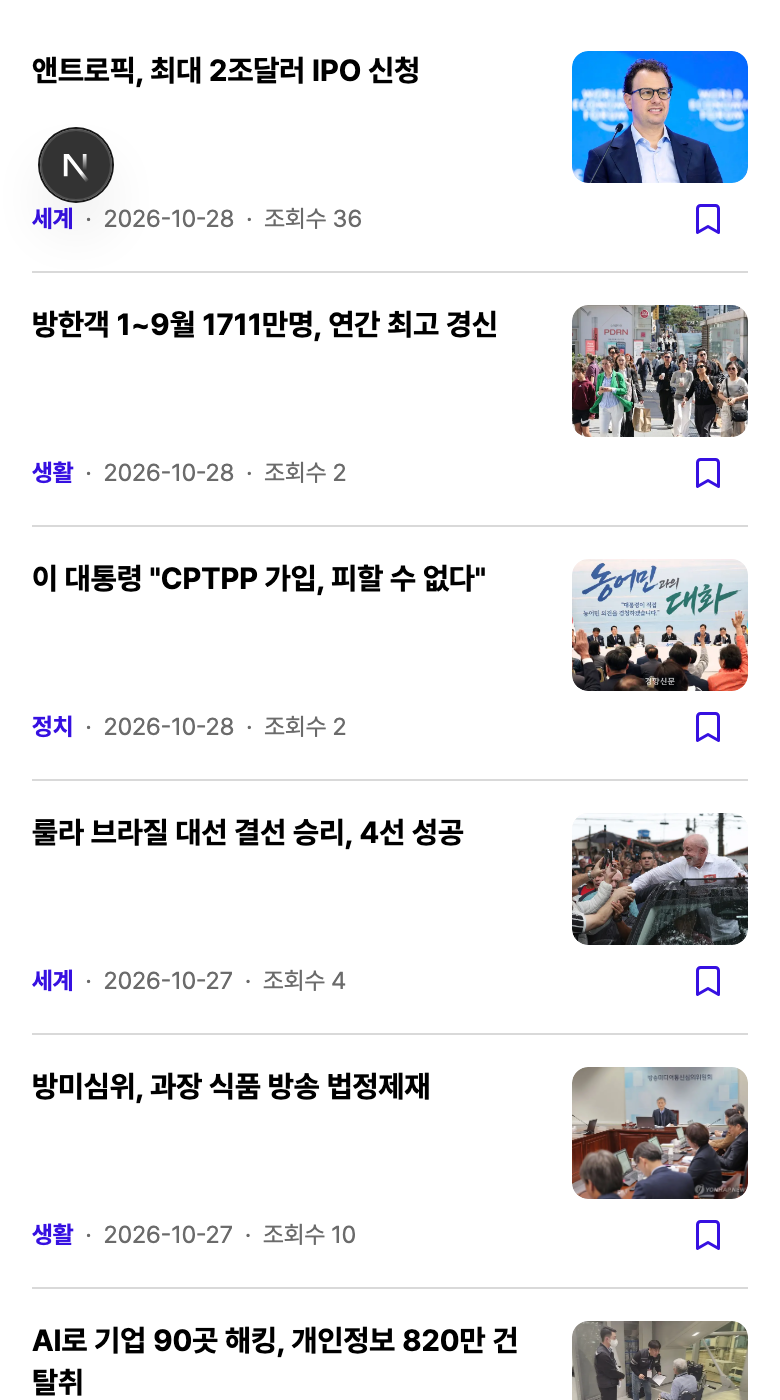
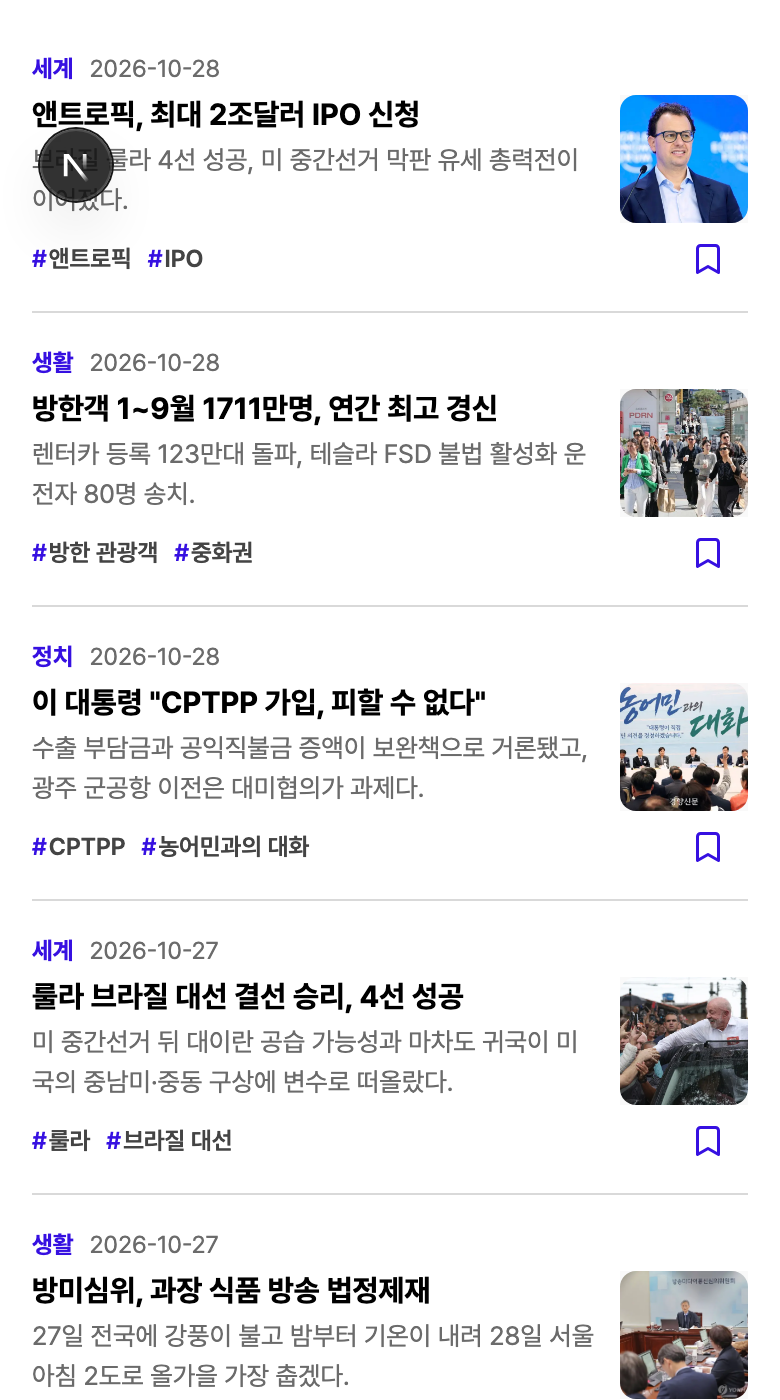
style: 휴대폰 목록 카드를 따로 — 분야 · 날짜 / 제목 · 설명 | 작은 정사각 썸네일 / 태그 · 북마크 (PC 카드는 그대로)

diff --git a/apps/web/src/components/common/Card.tsx b/apps/web/src/components/common/Card.tsx
@@ -44,7 +44,7 @@ function CardLink({
 }
 
 const Card = forwardRef<HTMLDivElement, Props>(({ type = 'sub', className, data, newTab = false, highlight }, ref) => {
-	const { image, header, main, footer, url } = data;
+	const { image, header, main, footer, url, date, action } = data;
 
 	return (
 		<StyledCard ref={ref} className={className} $type={type}>
@@ -131,7 +131,7 @@ const Card = forwardRef<HTMLDivElement, Props>(({ type = 'sub', className, data,
 				{type === 'list' && (
 					<>
 						{/* 제목 링크를 카드 전체로 늘려(::after) 어디를 눌러도 상세로. 태그 · 북마크는 그 위에 따로 눌린다 (#20) */}
-						<div className="card-stretch">
+						<div className="card-stretch wide">
 							<div className="card-main">
 								<div className="card-header">
 									{header && (
@@ -163,6 +163,38 @@ const Card = forwardRef<HTMLDivElement, Props>(({ type = 'sub', className, data,
 									</div>
 								</div>
 							</div>
+						</div>
+						{/* 휴대폰 카드: 분야 · 날짜 / 제목 · 설명 | 작은 썸네일 / 태그 · 북마크 */}
+						<div className="card-stretch narrow">
+							<div className="top">
+								{header && <span className="category">{header}</span>}
+								{date && <span className="date">{date}</span>}
+							</div>
+							<div className="row">
+								<div className="text">
+									{main.title && (
+										<CardLink href={url || '/not-found'} newTab={newTab} className="stretched-link">
+											<Text className="title" size="medium" weight="semiBold">
+												<Highlight text={main.title} query={highlight} />
+											</Text>
+										</CardLink>
+									)}
+									{main.description && (
+										<Text className="description" size="small">
+											<Highlight text={main.description} query={highlight} />
+										</Text>
+									)}
+								</div>
+								<div className="image-placeholder">
+									<Image src={image || `${DEFAULT_IMAGES.MONO}`} alt={main.title || 'card'} />
+								</div>
+							</div>
+							{(!!main.tags?.length || action) && (
+								<div className="bottom">
+									<Tags tags={main.tags} max={2} className="tags" linkable />
+									{action && <div className="action">{action}</div>}
+								</div>
+							)}
 						</div>
 					</>
 				)}
@@ -680,98 +712,11 @@ const listCardStyles = css`
 				-webkit-line-clamp: 2;
 			}
 		}
+	}
 
-		/*
-		 * 휴대폰은 뉴스 앱 목록처럼: 제목 | 썸네일, 아래 한 줄에 분야 · 날짜 · 조회수, 북마크는 오른쪽 끝.
-		 * 설명 · 태그는 뺀다. 안쪽 칸들을 풀어(display: contents) 카드 한 격자에 놓는다
-		 */
-		@media ${({ theme }) => theme.mediaQuery.mobile} {
-			.content,
-			.content .left,
-			.card-footer {
-				display: contents;
-			}
-
-			.content .description,
-			.content .tags {
-				display: none;
-			}
-
-			.stretched-link {
-				grid-row: 1;
-				grid-column: 1 / 5;
-				align-self: start;
-				padding-right: 0.5rem;
-			}
-
-			.title {
-				font-size: ${({ theme }) => theme.fontSize.small};
-				line-height: 1.4;
-			}
-
-			/* 썸네일은 제목 옆에 4:3로 */
-			.content .image-placeholder {
-				grid-row: 1;
-				grid-column: 5;
-				width: 5.5rem;
-				aspect-ratio: 4 / 3;
-
-				> div,
-				img {
-					height: 100%;
-					aspect-ratio: auto;
-				}
-			}
-
-			/* 아래 정보 줄: 분야 · 날짜 · 조회수 · (빈 칸) · 북마크 */
-			.card-header {
-				grid-row: 2;
-				grid-column: 1;
-				margin: 0;
-			}
-
-			.card-header p,
-			.card-header span,
-			.card-footer p,
-			.card-footer span {
-				font-size: 0.75rem;
-				line-height: 1.25rem;
-			}
-
-			.card-footer > :first-child {
-				grid-row: 2;
-				grid-column: 2;
-
-				&::before {
-					content: '·';
-					margin-right: 0.375rem;
-				}
-			}
-
-			.card-footer .views {
-				grid-row: 2;
-				grid-column: 3;
-
-				&::before {
-					content: '·';
-					margin-right: 0.375rem;
-				}
-			}
-
-			/* 북마크 단추(누르는 칸 40px)가 줄 높이를 키우지 않게 1.25rem 줄에 넘치게 둔다. 카드 전체 링크 위에서 눌리게 */
-			.card-footer .right {
-				grid-row: 2;
-				grid-column: 5;
-				height: 1.25rem;
-				position: relative;
-				z-index: 1;
-
-				svg {
-					width: 1.125rem;
-					height: 1.125rem;
-				}
-			}
-		}
+	/* 휴대폰 카드(.narrow)는 휴대폰에서만, PC 카드(.wide)는 그 밖에서만 */
+	.narrow {
+		display: none;
 	}
 
 	@media ${({ theme }) => theme.mediaQuery.mobile} {
@@ -779,13 +724,107 @@ const listCardStyles = css`
 			padding: 1rem 0;
 		}
 
-		/* 공통 .card-body .card-main(flex)보다 앞서도록 같은 깊이로 */
-		.card-body .card-main {
-			display: grid;
-			grid-template-columns: auto auto auto minmax(0, 1fr) 5.5rem;
-			column-gap: 0.375rem;
-			row-gap: 0.5rem;
+		.wide {
+			display: none;
+		}
+
+		.narrow {
+			display: flex;
+			flex-direction: column;
+			gap: 0.25rem;
+		}
+	}
+
+	/* 휴대폰 카드: 분야 · 날짜 / 제목 · 설명 | 작은 정사각 썸네일 / 태그 · 북마크 */
+	.narrow {
+		.top {
+			display: flex;
+			align-items: baseline;
+			gap: 0.5rem;
+			font-size: 0.75rem;
+		}
+
+		.category {
+			font-weight: ${({ theme }) => theme.fontWeight.semiBold};
+			color: ${({ theme }) => theme.color.primary};
+		}
+
+		.date {
+			color: ${({ theme }) => theme.color.subText};
+		}
+
+		.row {
+			display: flex;
+			align-items: flex-start;
+			gap: 0.75rem;
+		}
+
+		.text {
+			flex: 1;
+			min-width: 0;
+		}
+
+		.title {
+			font-size: 0.9375rem;
+			line-height: 1.4;
+			-webkit-line-clamp: 2;
+		}
+
+		.description {
+			margin-top: 0.125rem;
+			font-size: 0.8125rem;
+			line-height: 1.5;
+			color: ${({ theme }) => theme.color.subText};
+		}
+
+		.image-placeholder {
+			flex: 0 0 4rem;
+			width: 4rem;
+			height: 4rem;
+			aspect-ratio: 1;
+			border-radius: ${({ theme }) => theme.radius.control};
+
+			> div,
+			img {
+				height: 100%;
+				aspect-ratio: auto;
+			}
+		}
+
+		/* 태그(글자만) | 북마크. 북마크의 누르는 칸(40px)은 1.25rem 줄 밖으로 넘친다 */
+		.bottom {
+			display: flex;
 			align-items: center;
+			justify-content: space-between;
+			gap: 0.5rem;
+			height: 1.25rem;
+			margin-top: 0.25rem;
+		}
+
+		.tags {
+			flex-wrap: nowrap;
+			gap: 0.5rem;
+			min-width: 0;
+			overflow: hidden;
+
+			li {
+				padding: 0;
+				border: none;
+				font-size: 0.75rem;
+			}
+		}
+
+		.action {
+			position: relative;
+			z-index: 1;
+			margin-left: auto;
+			display: flex;
+			align-items: center;
+
+			svg {
+				width: 1.125rem;
+				height: 1.125rem;
+			}
 		}
 	}
 `;

diff --git a/apps/web/src/app/articles/(main)/_components/ListSection.tsx b/apps/web/src/app/articles/(main)/_components/ListSection.tsx
@@ -165,6 +165,8 @@ export default function ListSection() {
 									description: article.subtitle || article.summary,
 									tags: article.keywords,
 								},
+								date: article.date,
+								action: <BookmarkIcon newsId={article.id} newsletterId={article.id} />,
 								footer: (
 									<>
 										<Text color="subText">{article.date}</Text>

diff --git a/apps/web/src/models/card.model.ts b/apps/web/src/models/card.model.ts
@@ -11,6 +11,9 @@ export interface Card {
 		points?: { kicker: string; heading: string }[];
 	};
 	footer?: string | React.ReactNode;
+	/** 휴대폰 목록 카드: 분야 옆 날짜, 아래 줄 오른쪽 단추(북마크) */
+	date?: string;
+	action?: React.ReactNode;
 	url?: string;
 	target?: string;
 }
